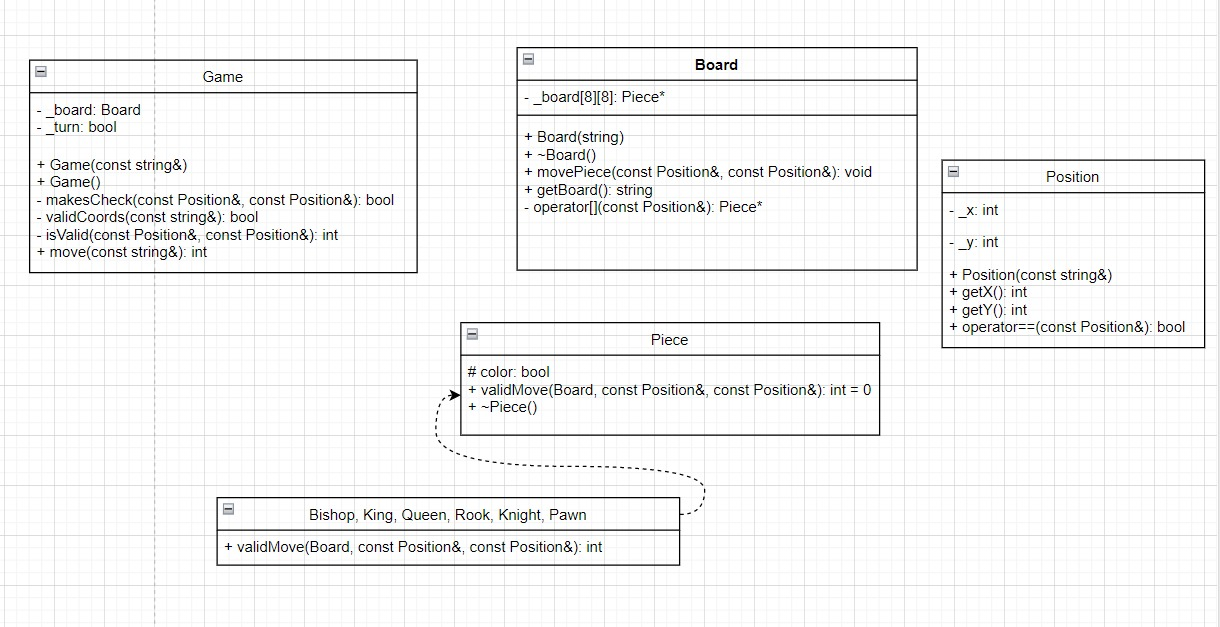
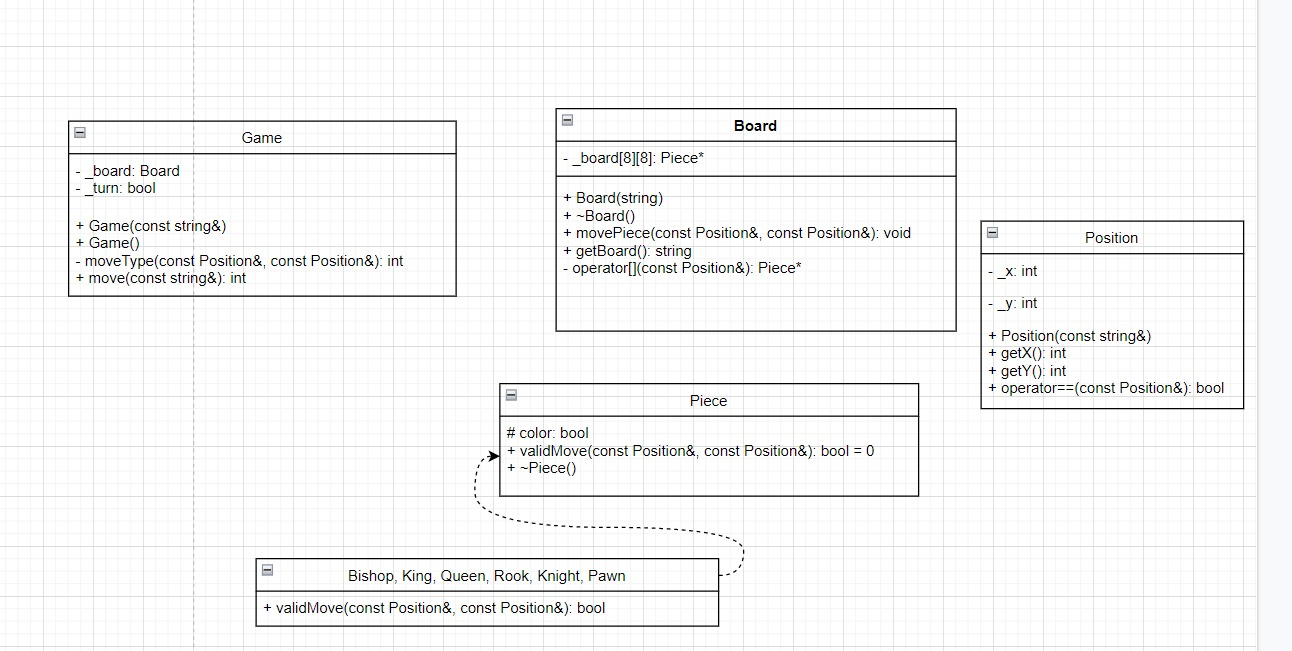
fixed UML's validation functions

diff --git a/Piece.h b/Piece.h
@@ -9,6 +9,6 @@ private:
 	bool _color;
 public:
 	virtual ~Piece();
-	virtual int validMove(const Board& board, const Position& src, const Position& dst) const = 0 ;
+	virtual bool validMove(const Position& src, const Position& dst) const = 0 ;
 };
 

diff --git a/Rook.h b/Rook.h
@@ -3,5 +3,5 @@
 class Rook : public Piece
 {
 public:
-	int validMove(const Board& board, const Position& src, const Position& dst) const override;
+	bool validMove(const Position& src, const Position& dst) const override;
 };
